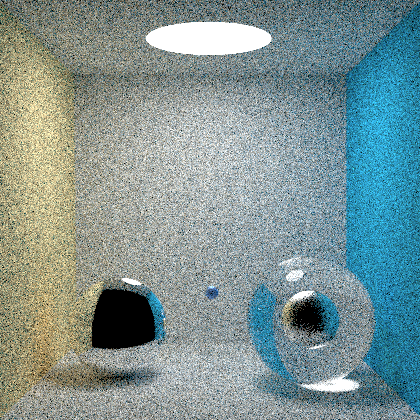
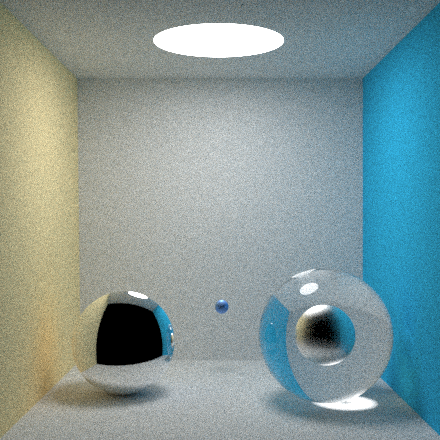
add par unseq

diff --git a/src/scene.hpp b/src/scene.hpp
@@ -1,6 +1,9 @@
 #include <iostream>
 #include <vector>
 #include <limits>
+#include <algorithm>
+#include <execution>
+#include <mutex>
 
 #include "vec3.hpp"
 #include "ray.hpp"
@@ -159,48 +162,83 @@ struct Scene
         return mat.diffuse * radiance + mat.emission;
     }
 
-    std::vector<Color> Render(int samplesPerPixel, int seed, int maxDepth = 10) const
+    std::vector<unsigned char> Render(int samplesPerPixel, int seed, int maxDepth = 10) const
     {
-        int width = cam.width;
-        int height = cam.height;
-        std::vector<Color> res(height * width);
-        // int rowsDone = 0;
+        std::vector<unsigned char> res(cam.width * cam.height * 4);
 
-        // random_devide rd;
-        // RNG rng(rd());
+        std::vector<int> ys(cam.height);
+        std::iota(ys.begin(), ys.end(), 0);
 
-        RNG rng(seed);
+        int lines_done = 0;
+        std::mutex mut;
 
-        for (int y = 0; y < height; y++)
-        {
-            for (int x = 0; x < width; ++x)
+        std::for_each(
+            std::execution::par_unseq,
+            ys.begin(),
+            ys.end(),
+            [this, &res, seed, samplesPerPixel, maxDepth, &lines_done, &mut](int y)
             {
-                Color pixelColor = {0., 0., 0.};
-                for (int i = 0; i < samplesPerPixel; ++i)
+                RNG rng(y * y + seed);
+                for (int x = 0; x < cam.width; ++x)
                 {
-                    auto ray = cam.GetRay(rng, x, y);
-                    auto rad = Radiance(rng, ray, 0, maxDepth);
-                    pixelColor = pixelColor + rad;
+                    Color pixelColor = {0., 0., 0.};
+                    for (int i = 0; i < samplesPerPixel; ++i)
+                    {
+                        auto ray = cam.GetRay(rng, x, y);
+                        auto rad = Radiance(rng, ray, 0, maxDepth);
+                        pixelColor = pixelColor + rad;
+                    }
+
+                    pixelColor = pixelColor / (T)samplesPerPixel;
+                    auto pixelPos = (y * cam.width + x) * 4;
+                    auto pixel = material<T>::colorToPixel(pixelColor);
+                    res[pixelPos + 0] = pixel.x;
+                    res[pixelPos + 1] = pixel.y;
+                    res[pixelPos + 2] = pixel.z;
+                    res[pixelPos + 3] = 255;
                 }
 
-                pixelColor = pixelColor / (T)samplesPerPixel;
-                auto pixelPos = y * width + x;
-                res[pixelPos] = material<T>::colorToPixel(pixelColor);
-            }
+                {
+                    std::unique_lock lock(mut);
+                    ++lines_done;
+                    constexpr int total_chars = 50;
+                    int done_chars = (total_chars * lines_done) / cam.height;
+                    int todo_chars = total_chars - done_chars;
+                    std::cerr << "\r  [";
+                    for (int ii = 0; ii < done_chars; ++ii)
+                        std::cerr << "#";
+                    for (int ii = 0; ii < todo_chars; ++ii)
+                        std::cerr << " ";
+                    std::cerr << "] -- " << (int)(100. * lines_done / (double)cam.height) << " %   ";
+                }
+            });
 
-            std::cout << y << std::endl;
-            // rowsDone++;
-            // auto prop = 100. * rowsDone / height;
-            // auto nok = (int)round(prop * PROGRESS_CHARS / 100.);
-            // auto nnok = PROGRESS_CHARS - nok;
-            //Log
-        }
+        std::cerr << "\033[0;32mPOGGERS\033[0;0m" << std::endl;
+
+        // for (int y = 0; y < height; y++)
+        // {
+        //     for (int x = 0; x < width; ++x)
+        //     {
+        //         Color pixelColor = {0., 0., 0.};
+        //         for (int i = 0; i < samplesPerPixel; ++i)
+        //         {
+        //             auto ray = cam.GetRay(rng, x, y);
+        //             auto rad = Radiance(rng, ray, 0, maxDepth);
+        //             pixelColor = pixelColor + rad;
+        //         }
+
+        //         pixelColor = pixelColor / (T)samplesPerPixel;
+        //         auto pixelPos = y * width + x;
+        //         res[pixelPos] = material<T>::colorToPixel(pixelColor);
+        //     }
+
+        //     std::cout << y << std::endl;
+        //     // rowsDone++;
+        //     // auto prop = 100. * rowsDone / height;
+        //     // auto nok = (int)round(prop * PROGRESS_CHARS / 100.);
+        //     // auto nnok = PROGRESS_CHARS - nok;
+        //     //Log
+        // }
         return res;
     }
-};
-
-template <typename T, typename RNG>
-std::ostream &operator<<(std::ostream &os, Scene<T, RNG> &sc)
-{
-    return os;
 };

diff --git a/src/main.cpp b/src/main.cpp
@@ -24,21 +24,6 @@ std::ostream &operator<<(std::ostream &os, const vector<T> &v)
     return os;
 }
 
-template <typename T>
-void save_render(string filename, const vector<vec3<T>> &image, int width, int height)
-{
-    using pixel = unsigned char;
-    vector<pixel> png_image;
-    for (auto &pix : image)
-    {
-        png_image.push_back((pixel)pix.x);
-        png_image.push_back((pixel)pix.y);
-        png_image.push_back((pixel)pix.z);
-        png_image.push_back(255);
-    }
-    lodepng::encode(filename, png_image, width, height);
-}
-
 int main()
 {
     /****************************
@@ -50,10 +35,10 @@ int main()
      * commenter
      ************************* */
 
-    auto scene = scene_builder::cornelBoxSpheres<double, mt19937>(240, 240);
+    auto scene = scene_builder::cornelBoxSpheres<double, minstd_rand>(500, 500);
 
-    auto image = scene.Render(3000, 42);
-    save_render("yes.png", image, scene.cam.width, scene.cam.height);
+    auto image = scene.Render(1000, 42);
+    lodepng::encode("yes2.png", image, scene.cam.width, scene.cam.height);
 
     // string filename = "yolo.png";
     // constexpr uint width = 1048;

diff --git a/src/camera.hpp b/src/camera.hpp
@@ -19,9 +19,21 @@ struct Camera
     T aspectRatio;
     T clippingPlane;
 
-    Camera(const Point &pos, const Direction &dir, const Direction &updir, int width, int height, T yFov)
-        : pos(pos), width(width), height(height), dir(dir.norm()), w(this->dir), u((w ^ updir).norm()), v(w ^ u),
-          aspectRatio((T)width / height), clippingPlane(1. / tan(yFov * M_PI / 360.))
+    Camera(const Point &pos,
+           const Direction &dir,
+           const Direction &updir,
+           int width,
+           int height,
+           T yFov)
+        : pos(pos),
+          width(width),
+          height(height),
+          dir(dir.norm()),
+          w(this->dir),
+          u((w ^ updir).norm()),
+          v(w ^ u),
+          aspectRatio((T)width / height),
+          clippingPlane(1. / tan(yFov * M_PI / 360.))
     {
     }
 
@@ -36,7 +48,6 @@ struct Camera
     template <typename RNG>
     Ray<T> GetRay(RNG &rng, int p_x, int p_y) const
     {
-
         auto dx = GetRandDif(rng);
         auto dy = GetRandDif(rng);
 

diff --git a/src/sceneBuilder.hpp b/src/sceneBuilder.hpp
@@ -65,7 +65,7 @@ namespace scene_builder
                                   S{P{120., 100., 250.}, 100.},
                                   S{P{120., 100., 250.}, 30},
                                   S{P{430., 80., 300.}, 80},
-                                  S{P{275., 120., 430.}, 12}};
+                                  S{P{275., 220., 330.}, 120}};
 
         std::vector<M> spheresMat = {light, glass, mirror, perfectmirror, smallSpecBlue};
 

diff --git a/src/material.hpp b/src/material.hpp
@@ -28,7 +28,7 @@ struct material
         return (ubyte)std::round(std::pow(std::clamp(t, 0., 1.), 1. / GAMMA) * 255);
     }
 
-    static color colorToPixel(const color &c)
+    static vec3<ubyte> colorToPixel(const color &c)
     {
         return {ctp(c.x), ctp(c.y), ctp(c.z)};
     }
